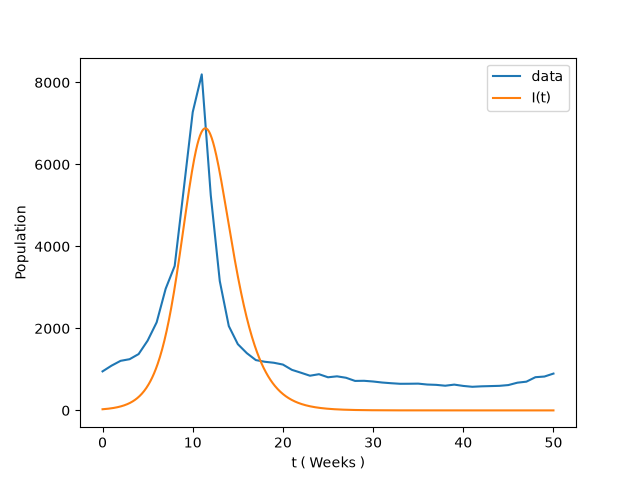
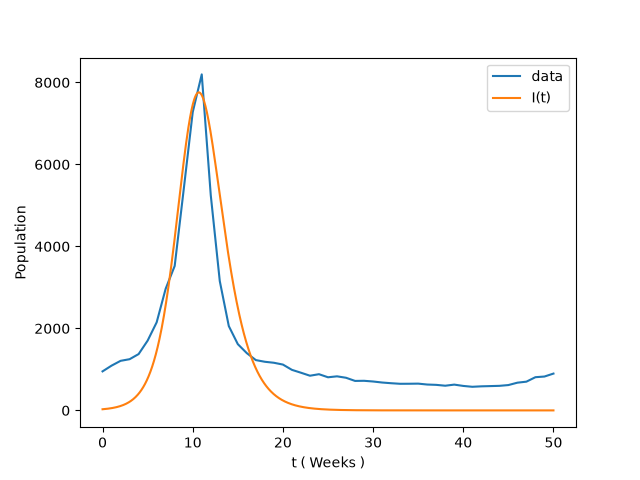
final code ready to turn in i think

Changed region(s): [[0.2188, 0.1875, 0.4688, 0.8438], [0.4688, 0.8438, 0.5625, 0.875], [0.1875, 0.8125, 0.2188, 0.8438]]

diff --git a/sir.py b/sir.py
@@ -8,7 +8,7 @@ gamma =1.0/(24*14) # (=1.0/336 per hr)The recovery rate constant per hour with a
 beta = beta * 168  # How quickly infections occur per person per week (1/1000pers/hrs * 168hrs/week)
 gamma = gamma * 168 # The recovery rate per week (1/(24*14)recovery/hrs * 168hrs/week)
 gamma = 1.25 # How quickly infections occur per person per week
-beta = 1.8e-5 # The recovery rate per week
+beta = 1.7e-5 # The recovery rate per week
 
 s = ps.s
 def deriv (x,t):
@@ -20,10 +20,10 @@ def deriv (x,t):
 # Create an array of 1000 points equally spaced in 0-12weeks that represents the times at which to 
 # calculate the solution. (2000hrs / 168hrs/week \approx 12weeks)
 time = np.linspace(0, 50, 1000)
-xinit =np.array ([108600, 25 ,0]) # Initial values of the three variables S(0), I(0), R(0) respectively
+xinit =np.array ([114000, 25 ,0]) # Initial values of the three variables S(0), I(0), R(0) respectively
 x= odeint(deriv, xinit, time ) # Compute the solution to the differential equation dS/dt, dI/dt, dR/dt
 plt.figure() # Create a new figure
-plt.plot(s[1][1:52], '-', label="data")
+plt.plot(s[1][1:52], '-', label="data") # Plot the Google Flu data for the first year in the US as comparison
 # p0 ,= plt.plot (time ,x [: ,0]) # Plot the value of the "succeptible" population at each time
 p1 ,= plt.plot (time ,x [: ,1], label="I(t)") # Plot the value of the "infected" population at each time
 # p2 ,= plt.plot (time ,x [: ,2]) # Plot the value of the "removed" population at each time
